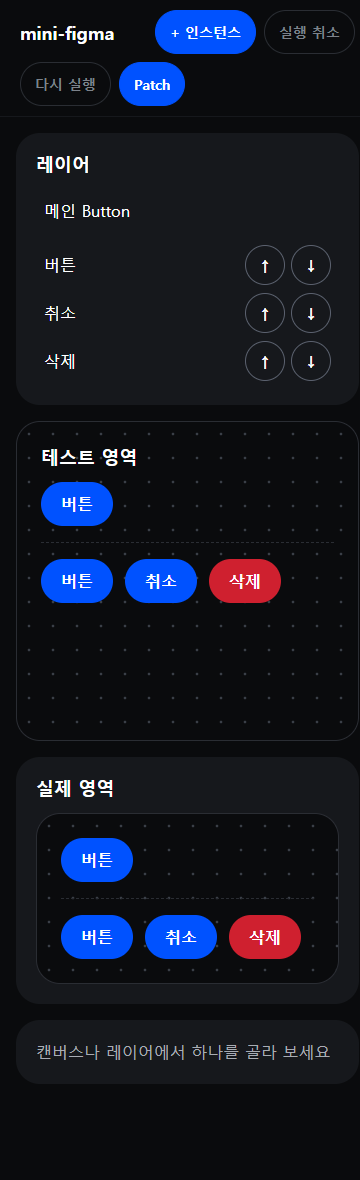
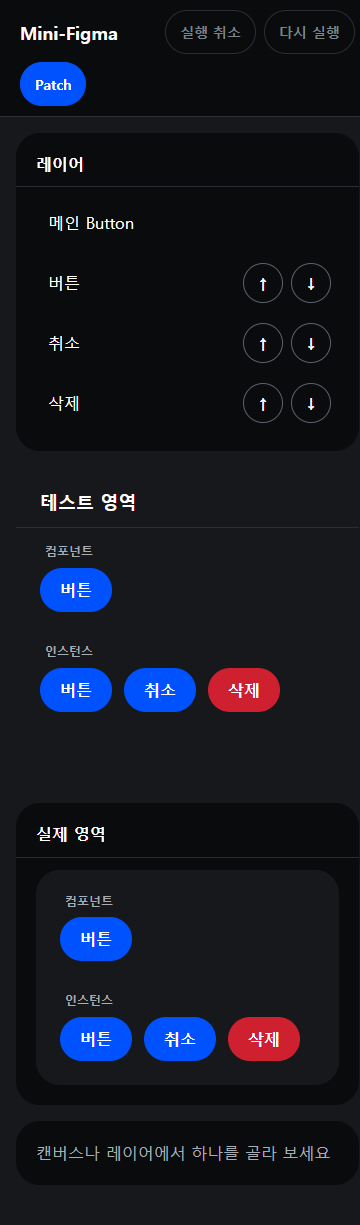
docs(patch-preview): QA 2회차 · 캡처 갱신 · 사람 확인 (task_005 · 006) · 버튼 자리 변경 기록

diff --git a/.agent_workflow/tasks/task_006_ryuuuu5618_patch-preview/04_qa_evidence/qa_todo_result.md b/.agent_workflow/tasks/task_006_ryuuuu5618_patch-preview/04_qa_evidence/qa_todo_result.md
@@ -1,41 +1,44 @@
 # qa_todo_result: patch-preview (task_006)
 
-- 시나리오: `qa_todo.md` (범위 = 명세 §6 「빠르게」: QA-46 ~ 54 + A30 · A31 · A32, A36은 단위 `preview.test.ts`)
-- 실행 명령: `npx playwright test e2e/mini-figma-preview.spec.ts --reporter=list` → 24 passed
-- 회귀: `npx playwright test` 전체 → 308 passed (기대 308) / `npx vitest run` → 45 파일 · 1178 passed (기대 1178) / `npx tsc --noEmit` → 오류 없음
-- 실행 시각: 2026-11-11T23:5x (브랜치 feature/patch-preview, HEAD 55251ab)
-- 캡처용 서버: **서버 남음: 5199 · `node ...\node_modules\vite\bin\vite.js --port 5199 --strictPort` (PID 47932, 부모 cmd 1936)**. 캡처용으로 `npx vite --port 5199 --strictPort`를 background로 띄웠고 TaskStop으로 껐으나 node 자식 프로세스가 남아 `/mini-figma/`가 200으로 응답함. 규칙상 포트 · PID로 프로세스를 죽이지 않아 그대로 둠 (5173 · 5180은 건드리지 않음)
+**재실행 2회차: Dev-8 · 디자인 커밋 5e841b2 · 905a582 · 81e1e2d 반영** (1회차 = 55251ab 시점, 전체 308 passed · 실패 0 · preview 24건이었음)
+
+- 시나리오: `qa_todo.md` (「PP-06 변경 (Dev-8)」 절 포함: QA-55 ~ 62 · A38 ~ A42, 개정된 QA-52 · 53 · 54)
+- 실행 명령: `npx playwright test --reporter=list` (전체 1회) → **330 passed · 0 failed · 0 skipped** (38.7s)
+- 회귀: `npx vitest run` → **1195 passed (1195)** / `npx tsc --noEmit` → 오류 없음 (exit 0)
+- 실행 시각: 2026-11-12T01:1x (브랜치 feature/patch-preview, HEAD 81e1e2d, 작업 트리: 앱 · 테스트 코드 변경 없음)
+- 캡처용 서버: 포트 5231 `npx vite --port 5231 --strictPort`(background)을 띄우고 TaskStop으로 껐으나 **서버 남음: 5231 · node 자식 프로세스 PID 46960** (`[::1]:5231` LISTENING, `/mini-figma/` 200 응답). 규칙상 포트 · PID로 죽이지 않고 둠. 5199 · 5173 · 5180은 건드리지 않음 (5199는 전체 실행 뒤 응답 없음).
 
 ## 요약
 
 | 프로젝트 | 통과 | 실패 | 건너뜀 |
 | --- | --- | --- | --- |
-| desktop (1280x800) — preview 스펙 12건 | 12 | 0 | 0 |
-| mobile (375x812) — preview 스펙 12건 | 12 | 0 | 0 |
-| 전체 회귀 (desktop + mobile) | 308 | 0 | 0 |
+| desktop (1280x800) | 165 | 0 | 0 |
+| mobile (375x812) | 165 | 0 | 0 |
+| 그중 preview 스펙 | 23 + 23 | 0 | 0 |
 
 ## 시나리오 결과
 
+전체 330건이 모두 PASS (desktop · mobile 동일). preview 스펙의 QA-46 ~ 62 · A30 ~ A40 시나리오와 기존 task_004 · 005 · Phase 1 · 2 회귀 포함. 필수 확인: Diff 기본 케이스 D-01 ~ 04 = QA-48 · 49 · 50 PASS (D-05 단위), History 동기화 = QA-52 · 55 PASS + 아래 캡처.
+
 | QA | PRD | desktop | mobile | 캡처 |
 | --- | --- | --- | --- | --- |
-| QA-46 | PP-01 · FD-06 · FD-08 | PASS | PASS | `screenshot_46_desktop.png` · `screenshot_46_mobile.png` (처음 상태) |
-| QA-47 | PP-02 · 03 · 05 · 07 | PASS | PASS | `screenshot_47_desktop_toolbar.png` · `screenshot_47_mobile_toolbar.png` (도구 막대) |
+| QA-46 | PP-01 · FD-06 · FD-08 | PASS | PASS | `screenshot_46_desktop.png` · `screenshot_46_mobile.png` (처음 상태, mobile은 fullPage) |
+| QA-47 | PP-02 · 03 · 05 · 07 | PASS | PASS | `screenshot_47_desktop_toolbar.png` · `screenshot_47_mobile_toolbar.png` (도구 막대 확대) |
 | QA-48 | PP-04 · 08 · D-01 | PASS | PASS | - |
-| QA-49 | PP-04 · 08 · D-02 | PASS | PASS | `screenshot_49_{desktop,mobile}_before.png` · `_after.png` (Patch 직후 깜빡임 박스 3개: 메인 · b1 · b2) |
-| QA-50 | PP-04 · D-03 · D-04 | PASS | PASS | - |
-| QA-51 | PP-04 · 05 | PASS | PASS | - |
-| QA-52 | PP-06 · 08 · 11 | PASS | PASS | `screenshot_52_desktop.png` · `screenshot_52_mobile.png` ([실행 취소] 후: 실제 영역만 파랑으로 돌아가고 테스트 영역은 빨강 그대로, [다시 실행] 켜짐) |
-| QA-53 | PP-06 | PASS | PASS | - |
-| QA-54 | PP-10 · 06 · 09 · 11 · 12 | PASS | PASS | - |
-| QA-A30 | PP-04 · 06 | PASS | PASS | - |
-| QA-A31 | PP-06 · 11 | PASS | PASS | - |
-| QA-A32 | PP-04 · 05 | PASS | PASS | - |
-| QA-A36 | PP-06 (한도 50) | 범위 밖(단위 `preview.test.ts` · `previewNav.test.ts`가 맡음, 이 e2e에서는 세지 않음) | 〃 | - |
-| QA-A33 · A34 · A35 · A37 | PP-03 · 04 · 06 · 01 | **PASS** (범위 확대 2026-11-12T00:26 사용자 결정, 커밋 03ba8b9 — preview 스펙 32 · 전체 316 통과, 각 테스트 깨짐 확인. 실행 = mr-worker, 마스터 기록) | desktop · mobile | - |
+| QA-49 | PP-04 · 08 · D-02 | PASS | PASS | `screenshot_49_{desktop,mobile}_before.png` · `_after.png` (메인 `#cf202f` 뒤 Patch 전 / 직후, 깜빡임 박스 3개) |
+| QA-50 · 51 | PP-04 · 05 · D-03 · 04 | PASS | PASS | - |
+| QA-52 | PP-06 · 08 · 11 · History 동기화 (개정) | PASS | PASS | `screenshot_52_desktop.png` · `screenshot_52_mobile.png` (Patch 뒤 [실행 취소] → 두 영역 모두 파랑) |
+| QA-53 · 54 | PP-06 · 10 | PASS | PASS | - |
+| QA-55 | PP-06 · T-08 · D-02 | PASS | PASS | `screenshot_55_desktop.png` · `screenshot_55_mobile.png` (Patch 안 한 편집 뒤 [실행 취소] → 편집 버려짐, 두 영역 처음 모습) |
+| QA-56 ~ 62 · A30 ~ A40 | PP-04 ~ 06 · 11 | PASS | PASS | - |
+| QA-A41 · A42 | PP-06 | 범위 밖 (단위 테스트가 맡음, vitest 1195 passed) | 〃 | - |
 
-필수 확인: Diff 기본 케이스 D-01 = QA-48, D-02 = QA-49, D-03 · 04 = QA-50 (D-05는 단위 R-13) — 모두 PASS. History 동기화 = QA-52 PASS + 캡처.
-
-캡처 직접 재현 수치 (MCP, `fixtures/mini-figma/`): 메인 색 `#cf202f` → Patch 직후 박스 3개(`data-last-patch-count` 3 · `data-last-flash-count` 3, desktop · mobile 동일), [실행 취소] 후 실제 영역 배경 `rgb(0, 82, 255)` · 테스트 영역 `rgb(207, 32, 47)` · [실행 취소] 꺼짐 · [다시 실행] 켜짐.
+캡처 직접 재현 수치 (MCP, `fixtures/mini-figma/`, desktop · mobile 동일):
+- 49: 메인 `#cf202f` → Patch 직후 박스 3개 (`data-last-patch-count` 3 · `data-last-flash-count` 3).
+- 52: [실행 취소] 뒤 테스트 · 실제 영역 모두 메인 · b1 · b2 `rgb(0, 82, 255)`, b3 `rgb(207, 32, 47)`, 색 입력값 `#0052ff`, [실행 취소] 꺼짐 · [다시 실행] 켜짐.
+- 55: 라벨 `확인` + 빨강을 Patch한 뒤 라벨을 `편집만`으로 고친 상태(테스트 `편집만`, 실제 `확인`)에서 [실행 취소] → 두 영역 라벨 `버튼 · 버튼 · 취소 · 삭제`, 배경 파랑 ×3 + 빨강, 라벨 입력칸 `버튼`, [실행 취소] 꺼짐 · [다시 실행] 켜짐.
+- 52 · 55 캡처는 [실행 취소] 뒤 1.5초 기다려 깜빡임 박스가 사라진 뒤(`.viz-box` 0개)에 찍음. (처음 시도에서는 깜빡임이 글자 위에 겹쳐 찍혀 다시 찍음)
+- 캡처 장면의 [+ 인스턴스]는 지금 버튼 글자가 「인스턴스 생성」이고 속성 패널 오른쪽 아래에 있음 (메인을 고른 뒤 누름).
 
 ## 실패 보고
 
@@ -43,9 +46,10 @@
 
 ## 그 밖에 본 것
 
-- 첫 전체 `npx playwright test`가 `http://localhost:5199/... is already used`로 즉시 실패했다. 직전에 끝난 preview 스펙 실행의 서버가 막 닫히는 중이던 것으로 보이며, 몇 초 뒤 재실행하니 308 passed. 코드 문제 아님(불확실하나 재현 안 됨).
-- 캡처 스크립트의 브라우저 화면 크기는 1280x800 · 375x812만 썼다.
+- 1회차 때 있던 「직전 서버가 닫히는 중이라 5199 already used」 현상은 이번에는 없었다 (전체 1회로 통과).
+- 이번 캡처 서버(5231)도 TaskStop 뒤 node 자식이 남는다 (위 「서버 남음」). 1회차의 5199 잔여 프로세스는 이번 전체 실행이 정상 시작된 것으로 보아 이미 없어진 것으로 보임.
+- 캡처 화면 크기는 1280x800 · 375x812만 사용. mobile 캡처는 세로로 쌓이는 화면이라 fullPage.
 
 ## 사람 확인
 
-- [ ] 캡처를 직접 열어 확인함 (확인한 사람: , 시각: )
+- [x] 캡처를 직접 열어 확인함 (확인한 사람: ryuuuu5618, 시각: 2026-11-12T01:16, 재실행 2회차 캡처) — 사용자 "캡처 OK"

diff --git a/CLAUDE.md b/CLAUDE.md
@@ -81,7 +81,7 @@
 - 선택 · key = 인스턴스 id (지운 번호 재사용 안 함), 순서 = 배열 순서. 메인은 지울 수 없음, 고른 것을 지우면 선택 풀림
 - 키보드 = `useEffect`에서 `document`에 `keydown` 등록 + cleanup (엔진 이벤트는 그대로 `click` · `input`), 입력칸 · 선택 상자 · 체크박스 안의 Delete · Backspace는 무시. Undo/Redo 키는 입력칸 밖 · 선택 상자 · 체크박스에서 앱 Undo/Redo(task_006부터 State History 뒤로 · 앞으로) + 브라우저 기본 동작을 막음(`preventDefault`, 브라우저 글자 되돌리기가 겹치지 않게), 라벨 글자 칸 안은 앱 동작 없이 브라우저 글자 되돌리기 그대로 (Q18)
 - Undo = `main` · `instances`만, 같은 대상 + 같은 칸 연달아 = 한 단계 (시간 기준 없음), 50개 — **task_006에서 제거** (단축키는 State History로)
-- (task_006, 2026-11-11) 실제 영역 = Phase 1 흐름: [Patch] → 테스트 영역(캔버스) DOM `readAreaChildren` → 정리(고르기 표시 · testid · 제목 빼기) → `createVDomRoot(실제 영역).update` (diff + 바뀐 곳만 patch + State History, 한도 50), 바뀐 노드 깜빡임(덧칠 층). 도구 막대 = [+ 인스턴스] · [실행 취소] · [다시 실행] · [Patch] (State History 뒤로 · 앞으로), Ctrl/Cmd+Z · Shift+Z = State History 뒤로 · 앞으로 (Q18 키 규칙 유지). 실제 영역은 보기 전용(`inert`), 상자는 미니 React가 자식 없는 빈 요소로 그림
+- (task_006, 2026-11-11) 실제 영역 = Phase 1 흐름: [Patch] → 테스트 영역(캔버스) DOM `readAreaChildren` → 정리(고르기 표시 · testid · 제목 빼기) → `createVDomRoot(실제 영역).update` (diff + 바뀐 곳만 patch + State History, 한도 50), 바뀐 노드 깜빡임(덧칠 층). 도구 막대 = [실행 취소] · [다시 실행] · [Patch] (State History 뒤로 · 앞으로, 실제 영역과 테스트 영역 `doc`을 함께 그 칸으로 — PRD T-08, `doc` 사본을 기록 칸 번호로 저장 · Patch 안 한 편집은 버림), [인스턴스 생성] · [삭제]는 속성 패널 오른쪽 아래 (81e1e2d 사용자 변경), Ctrl/Cmd+Z · Shift+Z = State History 뒤로 · 앞으로 (Q18 키 규칙 유지). 실제 영역은 보기 전용(`inert`), 상자는 미니 React가 자식 없는 빈 요소로 그림
 
 **정책 (PRD §3.3 · §4.2 · §4.3 · §5)**
 - 이력: 초기 모습 = 0번 기록(뒤로가기의 바닥) · 무변경 Patch는 기록 안 함 · 뒤로 간 뒤 새 Patch면 앞쪽 기록 버림 · 처음 · 끝에서 누르면 무시 · 이동 때 미저장 편집은 버림(편집창 · 테스트 영역 · 실제 영역 모두 그 기록으로) · 보관 한도 50, 넘으면 가장 오래된 기록부터 뺌

diff --git a/.agent_workflow/tasks/task_005_ryuuuu5618_figma-design/04_qa_evidence/qa_todo_result.md b/.agent_workflow/tasks/task_005_ryuuuu5618_figma-design/04_qa_evidence/qa_todo_result.md
@@ -72,6 +72,16 @@ MCP로 같은 페이지에서 재현한 값 (desktop · mobile 동일): 처음 [
 
 ## 사람 확인
 
-- [ ] 캡처를 직접 열어 확인함 (확인한 사람: , 시각: )
-- [ ] 브라우저의 색 고르기 팝업(`<input type="color">` 네이티브 창)을 직접 열어 색을 고르면 버튼이 따라 바뀌고 Ctrl+Z 한 번에 시작 색으로 돌아오는지 (Playwright `fill`로는 팝업 조작을 못 함)
-- [ ] 어두운 바탕에서 글자 · 선택 표시 · 점무늬가 읽히는지 육안 확인 (특히 `#eef0f3` · `#0a0b0d` 칠한 버튼 위 선택 파랑 테두리, QA-A29)
+- [x] 캡처를 직접 열어 확인함 (확인한 사람: ryuuuu5618, 시각: 2026-11-12T01:16, v2 재캡처 기준) — 사용자 "캡처 OK"
+- [x] 브라우저의 색 고르기 팝업(`<input type="color">` 네이티브 창)을 직접 열어 색을 고르면 버튼이 따라 바뀌고 Ctrl+Z 한 번에 시작 색으로 돌아오는지 (Playwright `fill`로는 팝업 조작을 못 함) — 사용자 "팝업 됨" (2026-11-12T01:16)
+- [x] 어두운 바탕에서 글자 · 선택 표시 · 점무늬가 읽히는지 육안 확인 (특히 `#eef0f3` · `#0a0b0d` 칠한 버튼 위 선택 파랑 테두리, QA-A29) — 점무늬는 5e841b2에서 사용자가 없앰, 스크롤바 색은 사용자 "스크롤바 그대로" (2026-11-12T01:16)
+
+## 재캡처 v2 (task_006 이후 화면)
+
+task_006 · Dev-8 · 디자인 커밋(HEAD 81e1e2d) 이후 화면으로 다시 찍음. 기존 파일은 그대로 두고 `_v2`로 추가. 같은 폴더, desktop 1280x800 · mobile 375x812 (mobile은 fullPage). 앱 Undo 버튼이 없어져 05 장면을 바꿈.
+- 01 처음 화면 (도구 막대 [실행 취소] · [다시 실행] 꺼짐 · [Patch] 켜짐, 테스트 · 실제 영역) — `screenshot_01_desktop_v2.png` · `screenshot_01_mobile_v2.png`
+- 02 메인 고른 상태 — `screenshot_02_desktop_v2.png` · `screenshot_02_mobile_v2.png`
+- 03 메인을 `#f4b000`으로 (메인 · b1 · b2 `rgb(244, 176, 0)`, b3 빨강) — `screenshot_03_desktop_v2.png` · `screenshot_03_mobile_v2.png`
+- 04 b1 고르고 `#05b169` override (b1 `rgb(5, 177, 105)`, ↻ 1개) — `screenshot_04_desktop_v2.png` · `screenshot_04_mobile_v2.png`
+- 05 메인 크기 L → [Patch] → [실행 취소] (두 영역 버튼 4개 모두 `btn-M`으로 복원, [다시 실행] 켜짐; 깜빡임 사라진 뒤 촬영) — `screenshot_05_desktop_v2.png` · `screenshot_05_mobile_v2.png`
+- 06 인스턴스 22개 추가 (기존 3 + 22 = 레이어 행 25개; desktop scrollWidth 1280 = innerWidth, scrollHeight 800 = innerHeight / mobile scrollHeight 3350, 가로 스크롤 없음, fullPage) — `screenshot_06_desktop_v2.png` · `screenshot_06_mobile_v2.png`

diff --git a/.agent_workflow/tasks/task_004_ryuuuu5618_mini-figma/01_request_spec.md b/.agent_workflow/tasks/task_004_ryuuuu5618_mini-figma/01_request_spec.md
@@ -41,7 +41,7 @@ ID 열의 `MF-xx`는 이 task 안에서만 쓰는 번호다 (PRD ID 아님).
 | --- | --- | --- |
 | MF-20 | 고르기 | 캔버스나 레이어 창에서 메인 · 인스턴스를 누르면 고름. 속성 패널 머리에 고른 대상(「메인 Button」 / 「인스턴스 · 삭제」) 표시. 캔버스 · 레이어에서 고른 것이 표시됨 |
 | MF-21 | 인스턴스 패널 표시 | override 값은 색으로 구분 + ↻ 버튼, 아닌 값은 「메인 따름」 **(사용자 변경 5e841b2, task_005 브랜치: 「메인 따름」 글자 제거, override = 값 칸 옅은 파랑 + 파랑 2px, ↻는 입력칸 · 선택 상자 안)** |
-| MF-22 | 인스턴스 추가 | [+ 인스턴스] → override 없는 새 인스턴스(전부 메인 따름)가 끝에 생김. id는 새 번호, 지운 번호 재사용 안 함 |
+| MF-22 | 인스턴스 추가 | [+ 인스턴스] → override 없는 새 인스턴스(전부 메인 따름)가 끝에 생김. id는 새 번호, 지운 번호 재사용 안 함 **(사용자 변경 81e1e2d: 버튼은 속성 패널, 메인을 고른 상태에서만 「인스턴스 생성」, 추가해도 선택은 메인 그대로)** |
 | MF-23 | 인스턴스 삭제 | 고른 인스턴스를 지움 → 캔버스 · 레이어에서 함께 사라짐. 고른 것을 지우면 선택이 풀림(`null`), 속성 패널은 빈 상태 |
 | MF-24 | 메인 삭제 불가 | 메인을 골랐을 때 삭제 버튼 없음, Delete 키도 아무 일 없음 |
 | MF-25 | 순서 바꾸기 | 레이어 창 [↑] [↓] → `instances` 배열 순서가 바뀌고 캔버스 · 레이어가 함께 바뀜. key = 인스턴스 id라서 버튼 DOM 노드가 그대로 옮겨짐(다시 만들지 않음) |
